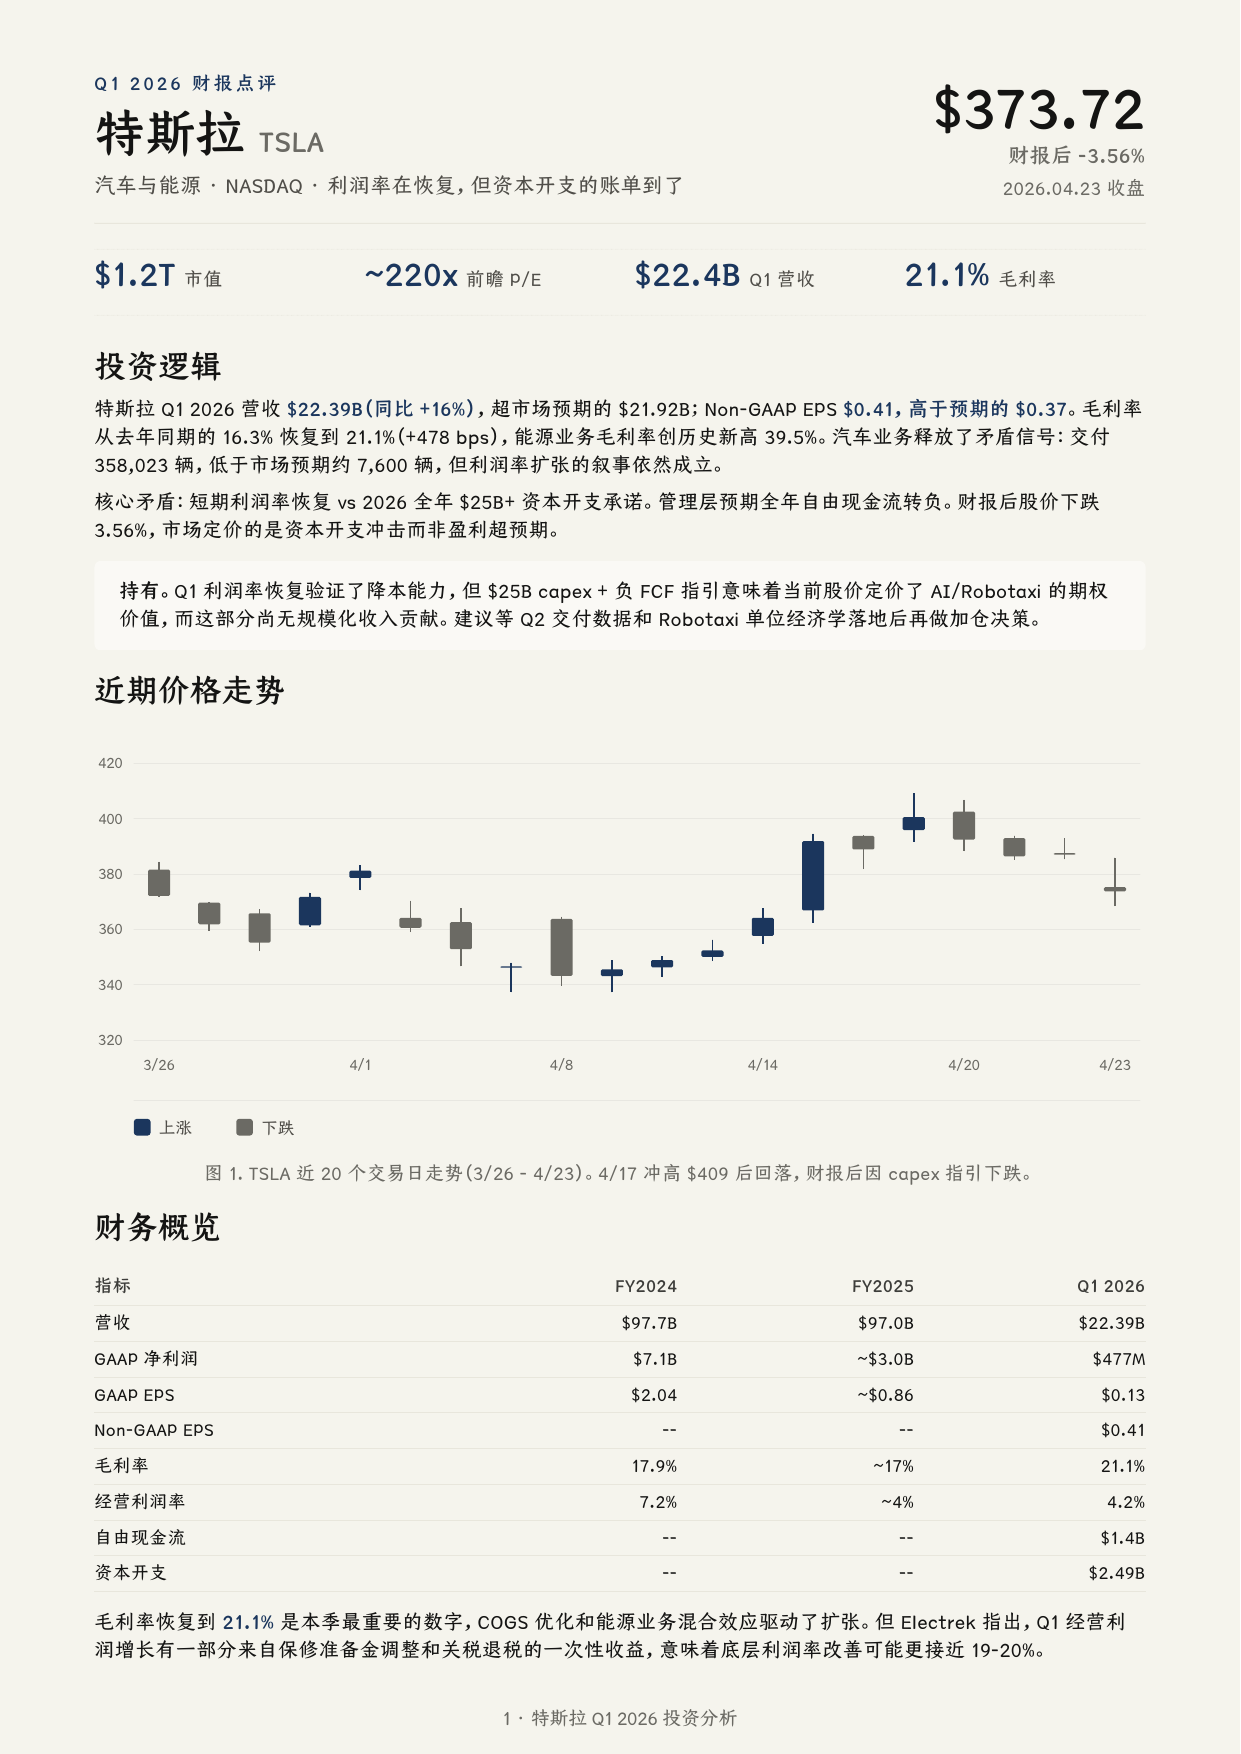
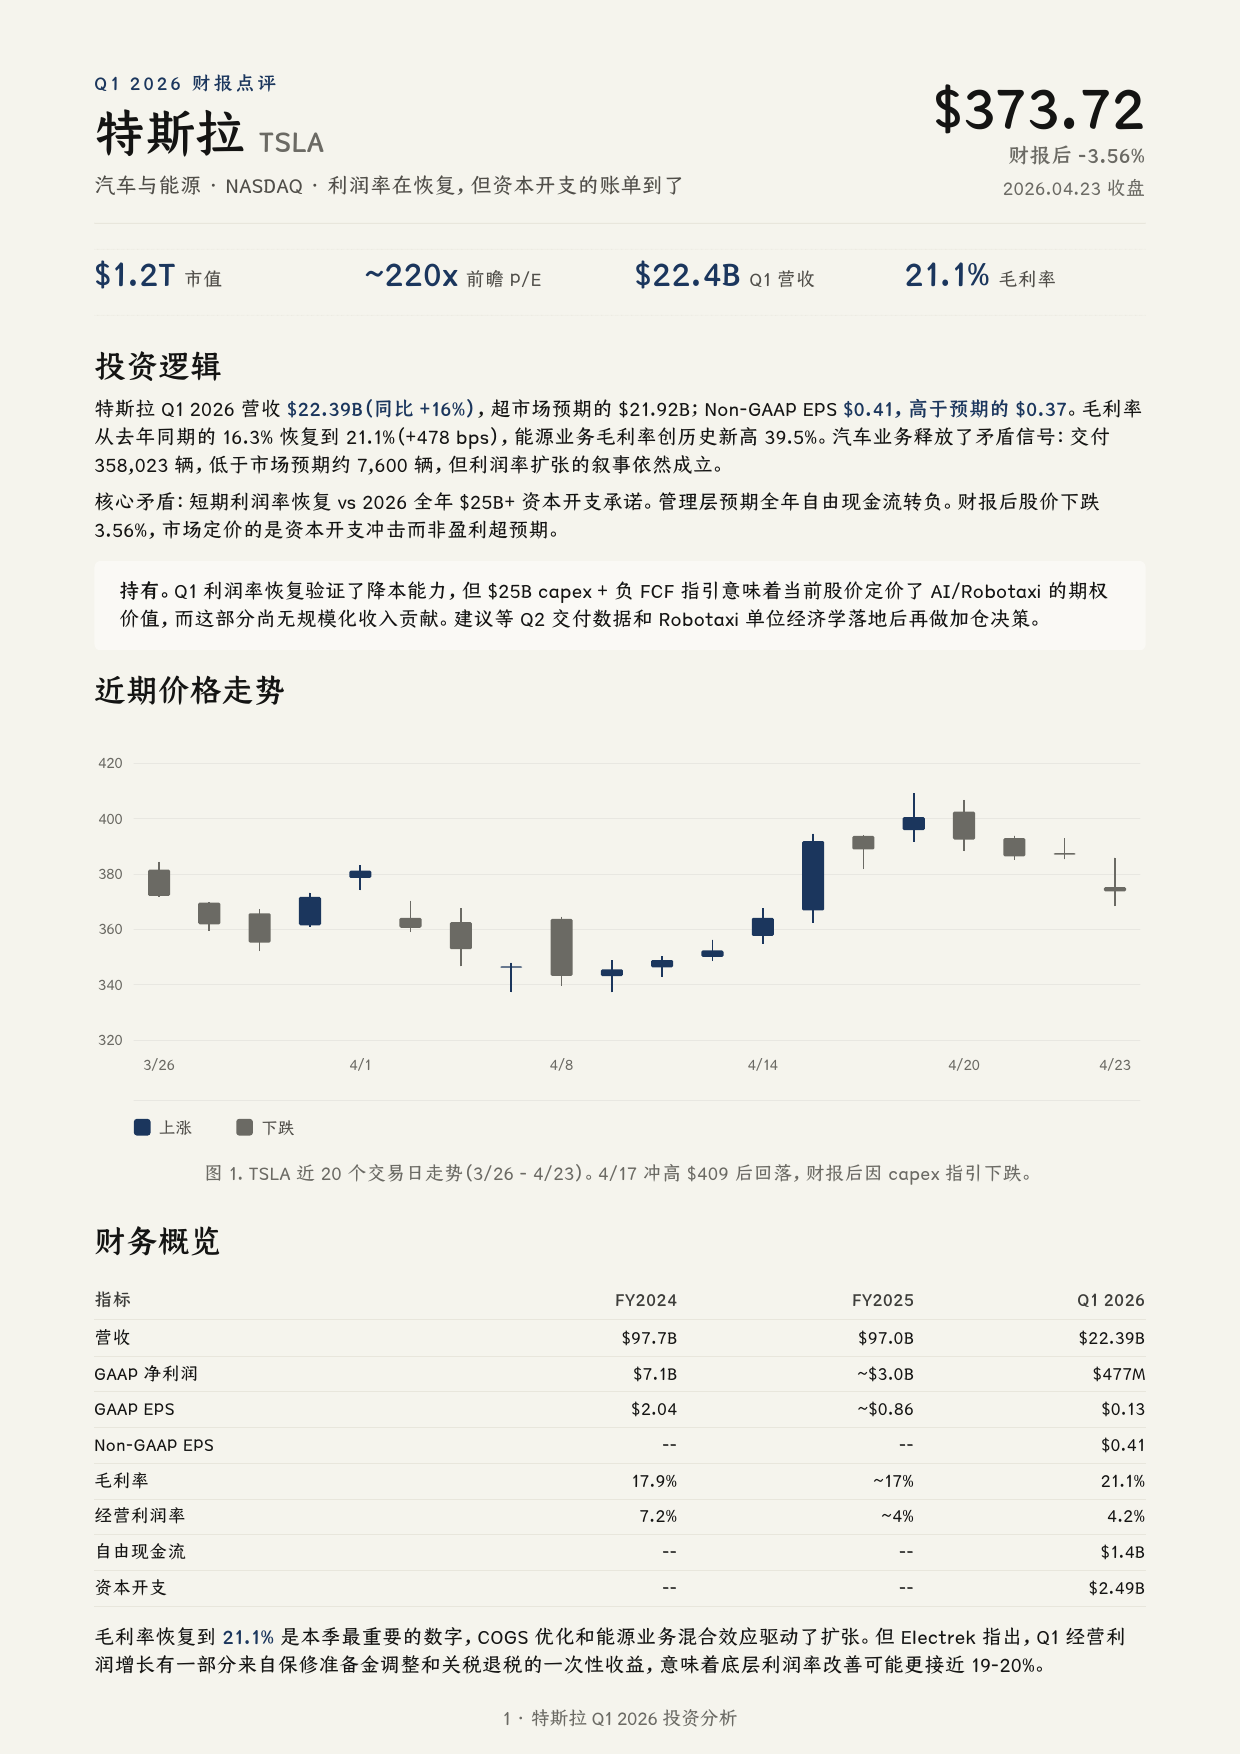
docs(demo): give the tesla price chart room before the next heading
The figure kept an 8pt bottom margin, squeezed down when the generated
chart first pushed the report to three pages. That left 9pt between the
9pt caption and the 15pt 财务概览 heading, which the maintainer read as
crowded. The bottom margin is now 16pt; the template's own figure margin
is 12pt, so this is a demo-only setting.

Verified: rendered through render_pdf, still 2 pages, page 1 body ends
above the footer with the last paragraph intact, page 2 is pixel
identical, demo-tesla.png regenerated at 1241x1754.

diff --git a/site/assets/demos/demo-tesla.html b/site/assets/demos/demo-tesla.html
@@ -228,7 +228,7 @@
   }
 
   /* ========== FIGURE ========== */
-  figure { margin: 8pt 0; break-inside: avoid; }
+  figure { margin: 8pt 0 16pt; break-inside: avoid; }
   figcaption {
     font-size: 9pt;
     color: var(--stone);
